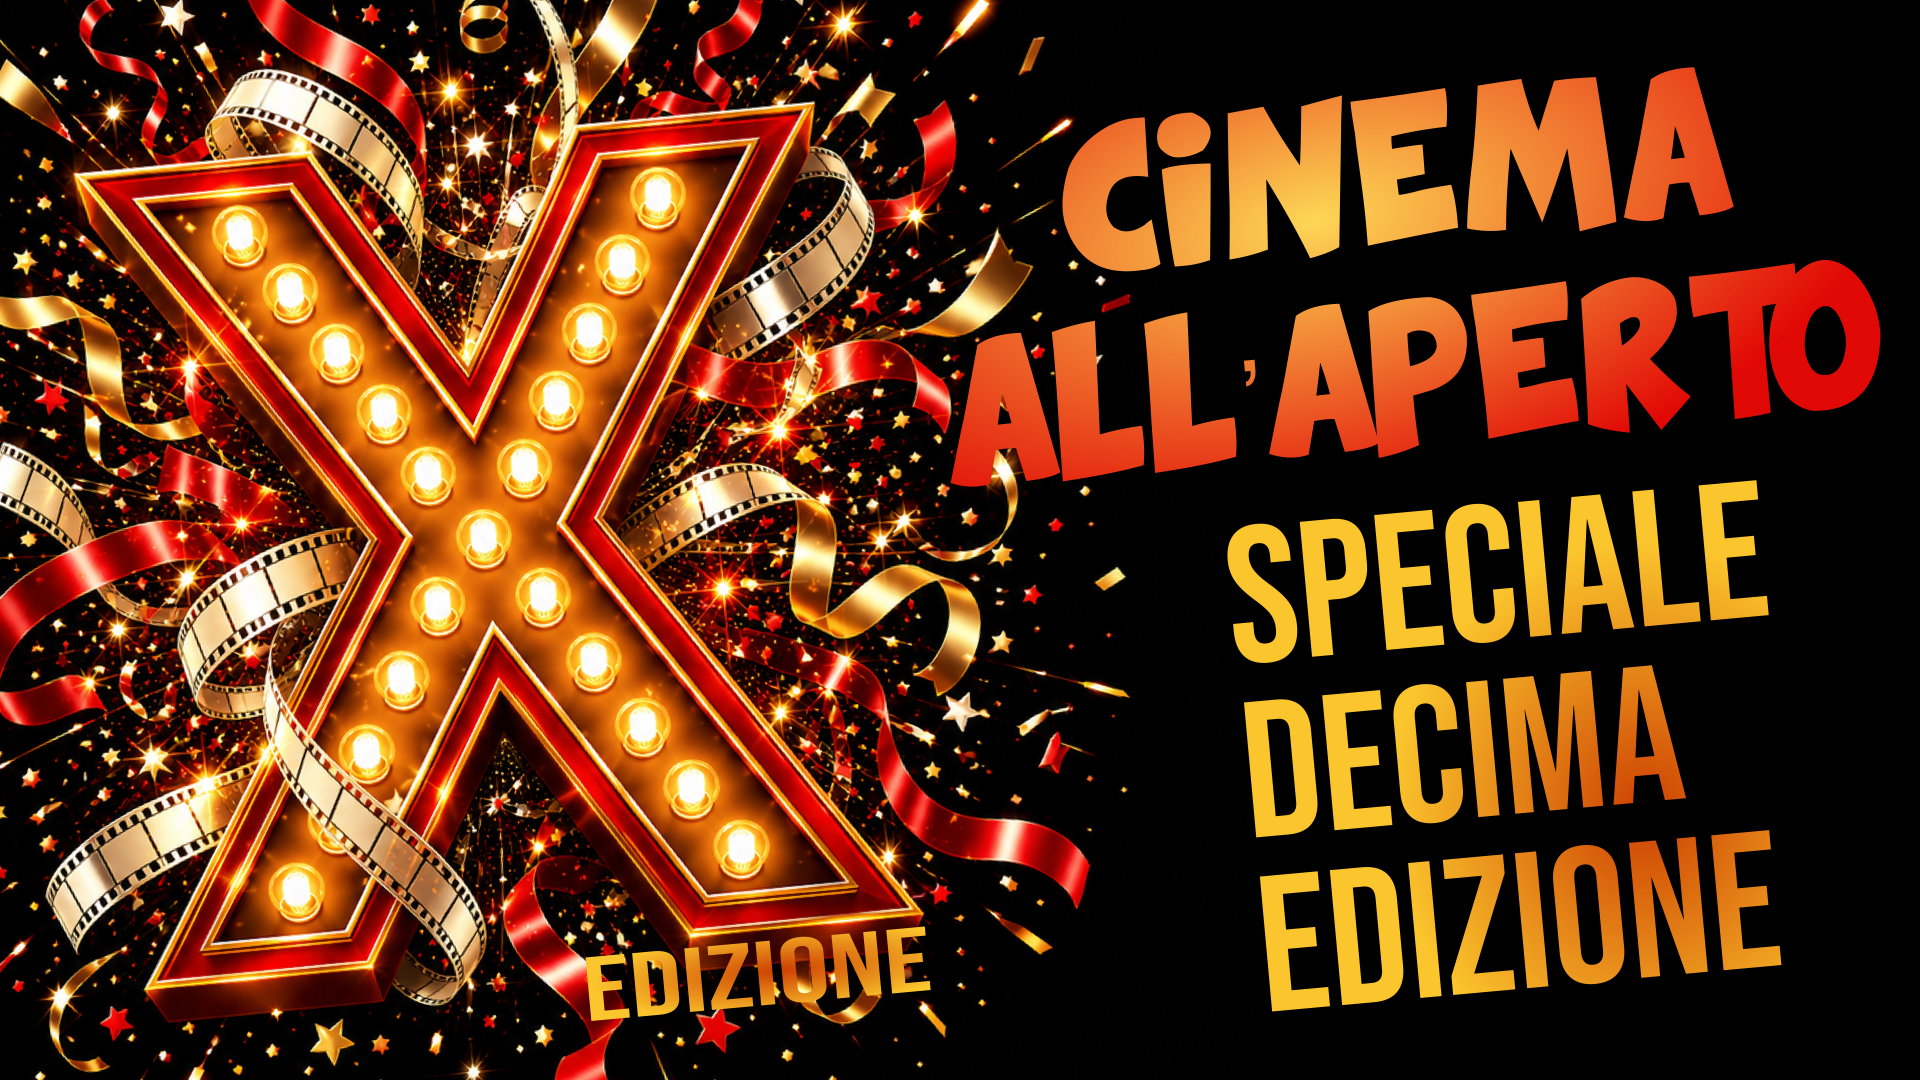
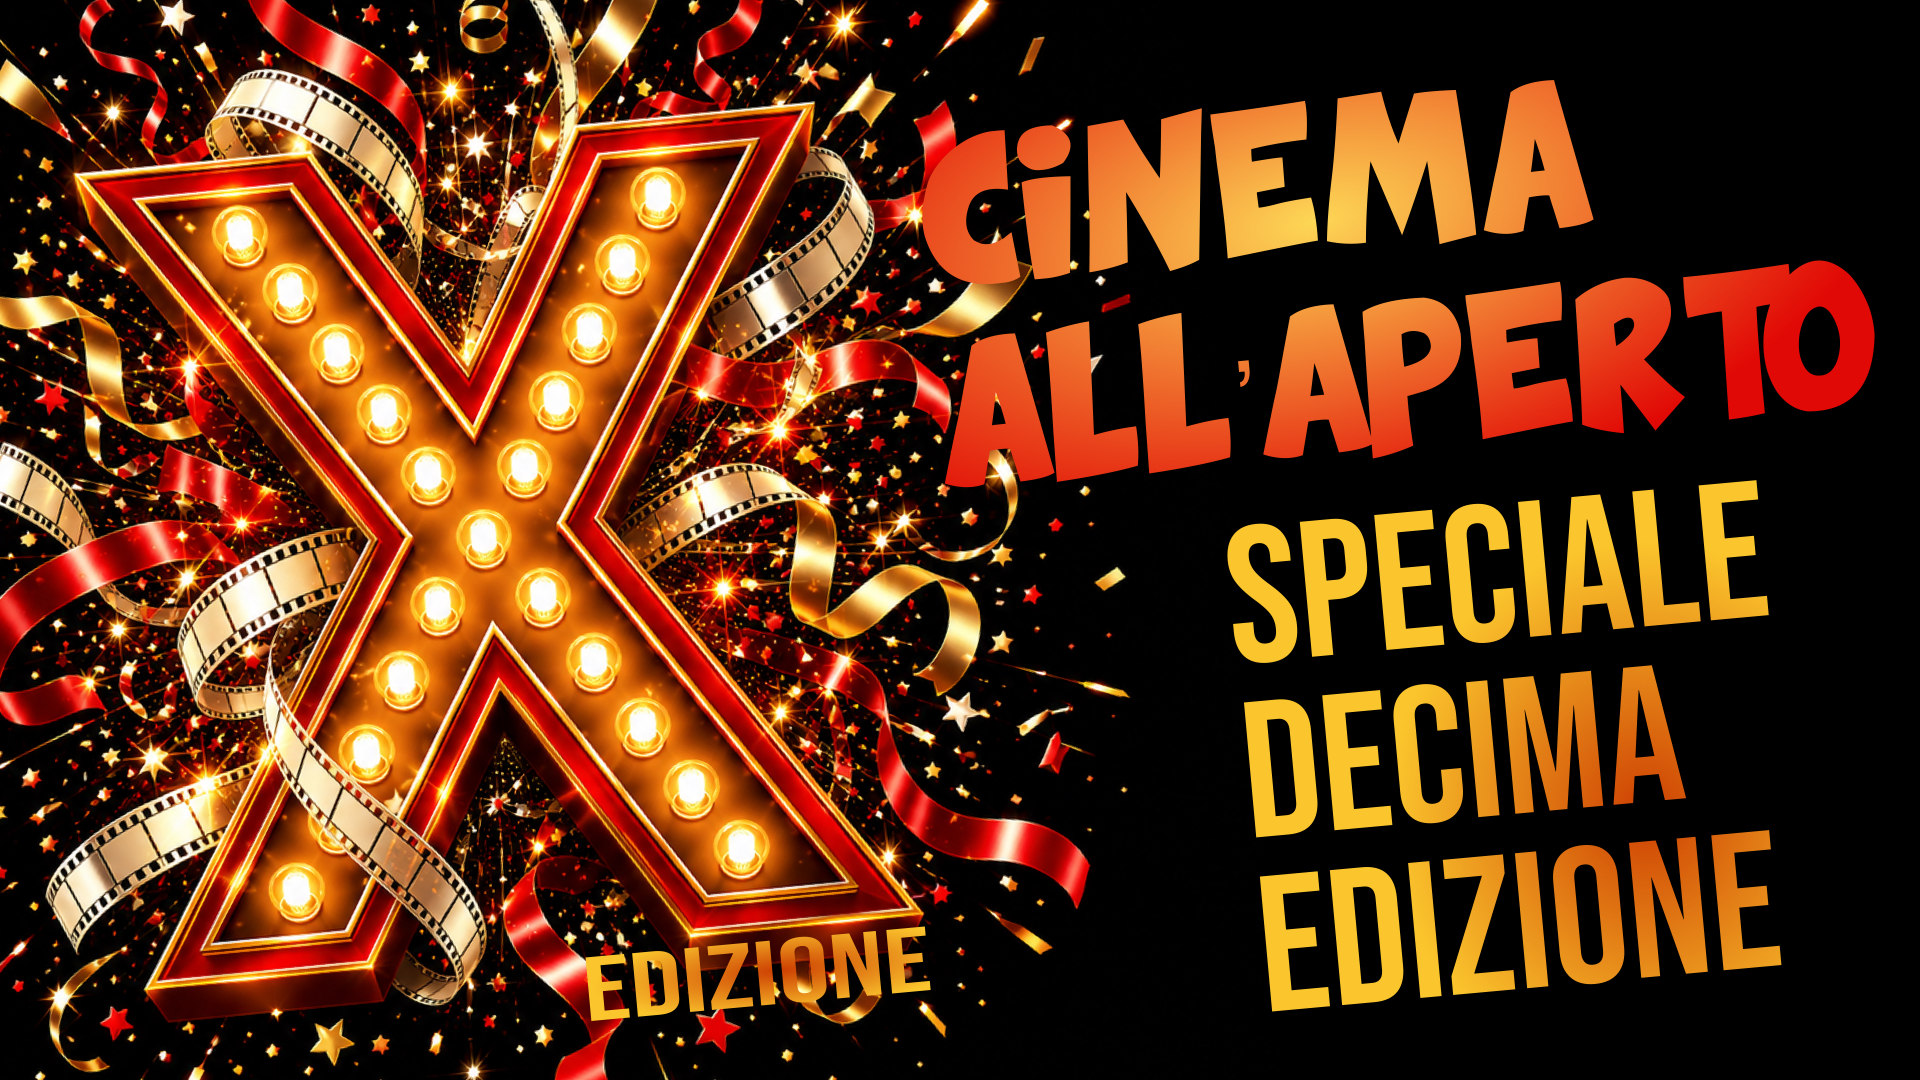
modifiche tag data

Changed region(s): [[0.4688, 0.0611, 0.9062, 0.275], [0.5, 0.2444, 1.0, 0.4583], [0.4688, 0.3972, 0.5, 0.4278]]

diff --git a/cinema-decima-edizione.html b/cinema-decima-edizione.html
@@ -145,9 +145,15 @@
 
         .cinema-nav-container {
             display: flex;
-            justify-content: center;
+            justify-content: flex-start;
             gap: 15px;
             padding: 0 15px;
+        }
+
+        @media (min-width: 768px) {
+            .cinema-nav-container {
+                justify-content: center;
+            }
         }
 
         .cinema-nav-link {
@@ -672,8 +678,6 @@
                     <div class="tech-details">
                         <span class="tech-item"><i class="fa-regular fa-calendar"></i> 9 Luglio 2026, ore 20:45</span>
                         <span class="tech-item separator">|</span>
-                        <span class="tech-item"><i class="fa-solid fa-clapperboard"></i> 2022</span>
-                        <span class="tech-item separator">|</span>
                         <span class="tech-item"><i class="fa-solid fa-location-dot"></i> Ristorante Bolen</span>
                         <span class="tech-item separator">|</span>
                         <span class="tech-item"><i class="fa-solid fa-film"></i> Commedia Romantica</span>
@@ -760,8 +764,6 @@
                     <div class="tech-details">
                         <span class="tech-item"><i class="fa-regular fa-calendar"></i> 16 Luglio 2026, ore 21:00</span>
                         <span class="tech-item separator">|</span>
-                        <span class="tech-item"><i class="fa-solid fa-clapperboard"></i> 1991</span>
-                        <span class="tech-item separator">|</span>
                         <span class="tech-item"><i class="fa-solid fa-location-dot"></i> Castello di Monasterolo</span>
                         <span class="tech-item separator">|</span>
                         <span class="tech-item"><i class="fa-solid fa-film"></i> Fantasy / Musical</span>
@@ -810,8 +812,6 @@
                     <div class="tech-details">
                         <span class="tech-item"><i class="fa-regular fa-calendar"></i> 23 Luglio 2026, ore 21:00</span>
                         <span class="tech-item separator">|</span>
-                        <span class="tech-item"><i class="fa-solid fa-clapperboard"></i> 1975</span>
-                        <span class="tech-item separator">|</span>
                         <span class="tech-item"><i class="fa-solid fa-location-dot"></i> Parco Biali, Riva Lago</span>
                         <span class="tech-item separator">|</span>
                         <span class="tech-item"><i class="fa-solid fa-film"></i> Thriller / Suspense</span>
@@ -859,8 +859,6 @@
                     <!-- Technical Details -->
                     <div class="tech-details">
                         <span class="tech-item"><i class="fa-regular fa-calendar"></i> 30 Luglio 2026, ore 21:00</span>
-                        <span class="tech-item separator">|</span>
-                        <span class="tech-item"><i class="fa-solid fa-clapperboard"></i> 2000</span>
                         <span class="tech-item separator">|</span>
                         <span class="tech-item"><i class="fa-solid fa-location-dot"></i> Piazza IV Novembre</span>
                         <span class="tech-item separator">|</span>

diff --git a/assets/js/script.js b/assets/js/script.js
@@ -71,15 +71,11 @@ document.addEventListener('DOMContentLoaded', () => {
                 featuredEvents.forEach(event => {
                     // === NOVITA': Generazione Tag per ogni organizzatore ===
                     // Se esistono associazioni per questo evento, creiamo piccoli blocchi <span> colorati
-                    let tagsHTML = event.associations ? event.associations.map(assoc => {
+                    const tagsHTML = event.associations ? event.associations.map(assoc => {
                         // Creiamo una classe CSS sicura (es. 'Avis' -> 'tag-avis' ; 'Gruppo Alpini' -> 'tag-gruppo-alpini')
                         const safeClass = assoc.toLowerCase().replace(/\s+/g, '-');
                         return `<span class="tag-badge tag-${safeClass}">${assoc}</span>`;
                     }).join('') : '';
-
-                    if (event.release_year) {
-                        tagsHTML += `<span class="tag-badge tag-year"><i class="fa-solid fa-clapperboard"></i> ${event.release_year}</span>`;
-                    }
 
                     const card = document.createElement('div');
                     card.className = 'event-card';

diff --git a/assets/js/events-archive.js b/assets/js/events-archive.js
@@ -67,14 +67,10 @@ document.addEventListener('DOMContentLoaded', () => {
                     // Costruiamo e agganciamo le Cards (Se ci sono collaborazioni, le vedrai multiple in varie sezioni!)
                     assocEvents.forEach(event => {
                         
-                        let tagsHTML = event.associations.map(a => {
+                        const tagsHTML = event.associations.map(a => {
                             const sc = a.toLowerCase().replace(/\s+/g, '-');
                             return `<span class="tag-badge tag-${sc}">${a}</span>`;
                         }).join('');
-
-                        if (event.release_year) {
-                            tagsHTML += `<span class="tag-badge tag-year"><i class="fa-solid fa-clapperboard"></i> ${event.release_year}</span>`;
-                        }
 
                         const card = document.createElement('div');
                         card.className = 'event-card';

diff --git a/assets/css/style.css b/assets/css/style.css
@@ -358,7 +358,6 @@ footer {
 .tag-avis { background-color: #e53935; }
 .tag-gvm { background-color: #18cea6; }
 .tag-gruppo-castoncello { background-color: #f1c224e5; }
-.tag-year { background-color: #4a5568; display: inline-flex; align-items: center; gap: 5px; }
 
 /* --- Info Point Section --- */
 .info-section {
